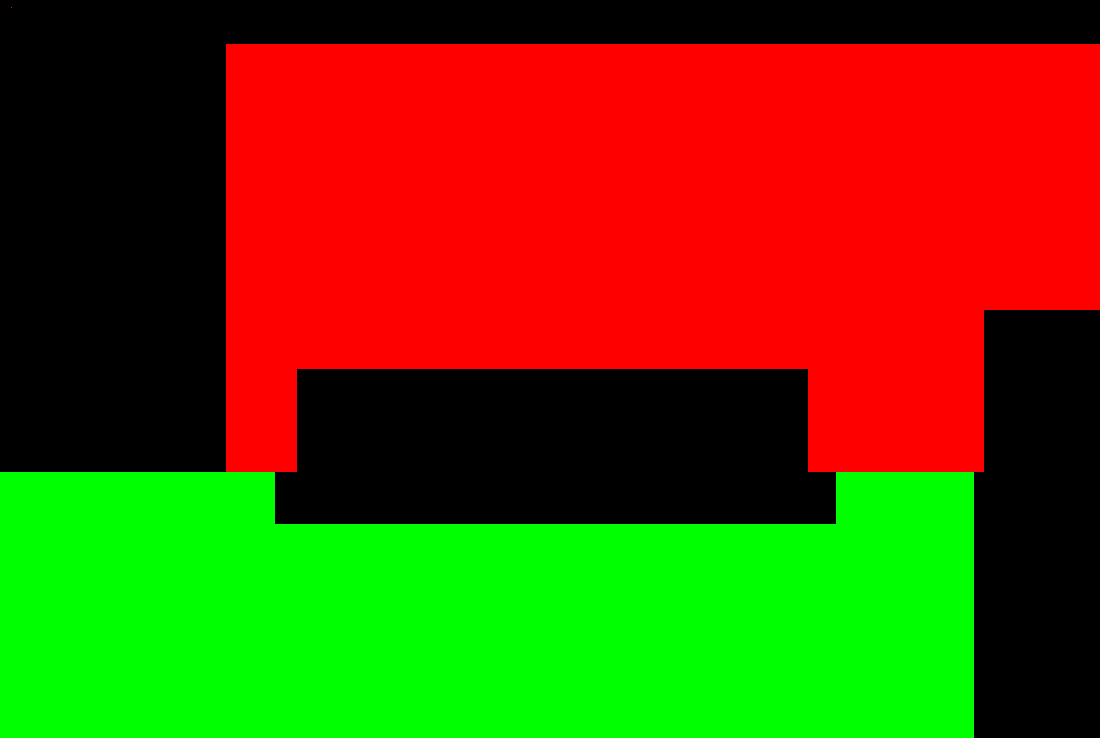
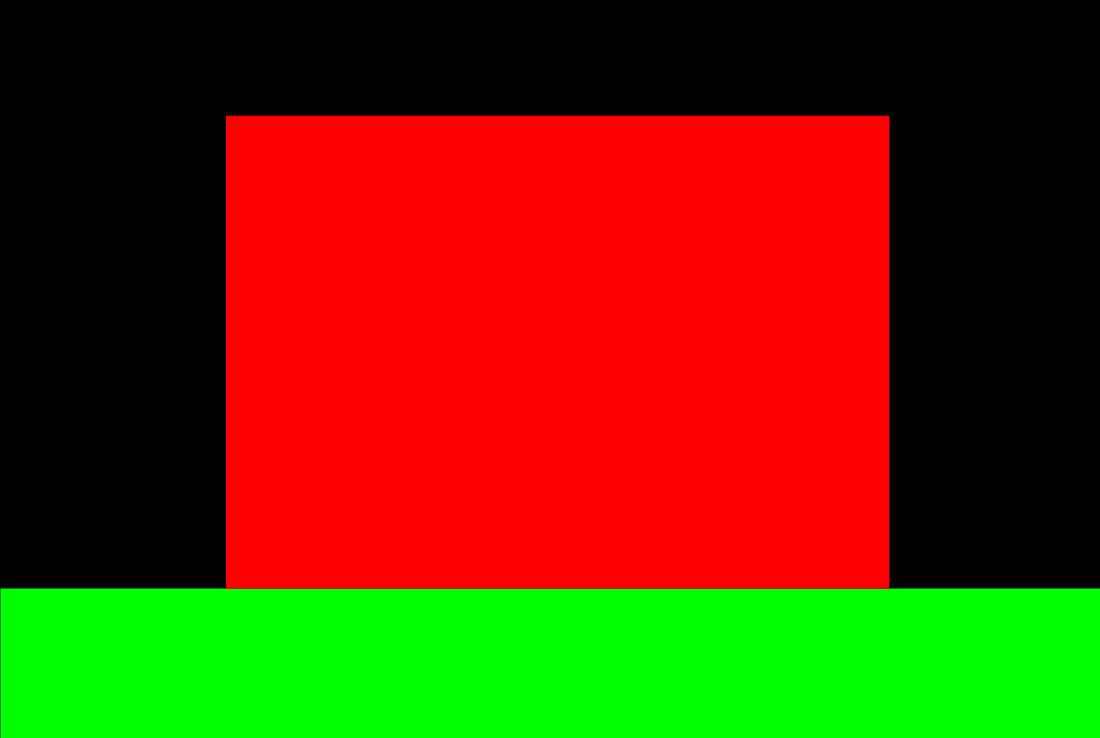
Konfigurator innen: praezise Wand-/Boden-Maske + exaktes Sofa
- Neue wohnzimmer-mask.png: Klinker fuellt exakt die Akzentwand
  (Deckenlinie 0.156 -> Bodenlinie 0.797, Fensterecke 0.205 -> Wandecke 0.808),
  Bodenplatten exakt den ganzen Boden.
- Sofa auf echte Silhouette getraced: Stufe ueber die Armlehnen (Wand darueber
  bleibt Klinker), Sockel-Unterkante mit zwei schmalen Bein-Tabs.
- Bodenplatten laufen unter dem Sofa durch und uebernehmen den Kontaktschatten
  aus dem Foto (multiply); nur Rahmen + Beine werden aus dem Foto restauriert.

diff --git a/assets/js/app.js b/assets/js/app.js
@@ -773,14 +773,21 @@
       floor:[[0.06,0.845],[0.94,0.845],[1.0,1.0],[0.0,1.0]],
       facadeTiles:8, floorTiles:5, floorHorizon:0.775 },
     interior:{ src:'assets/img/scenes/wohnzimmer.jpg', mask:'assets/img/scenes/wohnzimmer-mask.png',
-      facade:{x0:0.190,y0:0.100,x1:0.823,y1:0.732},          // accent wall (Riemchen), full coverage
+      // accent wall = ceiling line (0.156) → floor line (0.797), left corner (0.205) → right corner (0.808)
+      facade:{x0:0.205,y0:0.156,x1:0.808,y1:0.797},
       openings:[
-        // sofa silhouette down to the seat frame (floor tiles run underneath)
-        [0.287,0.650, 0.735,0.650, 0.752,0.672, 0.752,0.875, 0.266,0.875, 0.266,0.672],
-        [0.828,0.520,1.0,0.860]                                        // right wall recess + console + vase
+        // sofa traced tight to its silhouette: back cushions, a step down over each arm
+        // (so the wall above the arms stays brick), then the base underside with two leg
+        // tabs. Floor tiles run under the frame between the legs and take the sofa's own
+        // contact shadow from the photo (multiply); only the frame + legs are restored.
+        [0.300,0.663, 0.700,0.663, 0.722,0.702, 0.757,0.702, 0.757,0.850,
+         0.708,0.850, 0.708,0.886, 0.697,0.886, 0.697,0.850,
+         0.317,0.850, 0.317,0.885, 0.303,0.885, 0.303,0.850,
+         0.266,0.850, 0.266,0.705],
+        [0.820,0.550,1.0,0.830]                                        // right recess + console + vase
       ],
-      floor:[[0.0,0.780],[0.20,0.722],[1.0,0.718],[1.0,1.0],[0.0,1.0]],
-      floorHorizon:0.44, facadeTiles:6, floorPavers:15, restore:true, key:{lum:70,sat:0.42,blue:60} }
+      floor:[[0.0,0.797],[1.0,0.797],[1.0,1.0],[0.0,1.0]],   // whole floor, far edge = wall/floor line
+      floorHorizon:0.47, facadeTiles:6, floorPavers:15, restore:true, key:{lum:70,sat:0.42,blue:60} }
   };
   const sceneImgCache={};
   function loadImgUrl(src,cb){